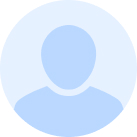
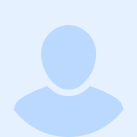
fix

diff --git a/scss/core/_header.scss b/scss/core/_header.scss
@@ -44,18 +44,22 @@
 	}
 
 	&__user {
-		display: flex;
-		align-items: center;
-		justify-content: flex-end;
+		display: none;
+		@media (min-width: 768px) {
+
+			display: flex;
+			align-items: center;
+			justify-content: flex-end;
+		}
 	}
 
 	&__userImg {
 		width: 3.875em;
 		height: 3.875em;
 		margin-left: 1.5em;
-		flex: none;
 
 		img {
+			border-radius: 50%;
 			display: block;
 			object-fit: cover;
 			width: 100%;
@@ -68,6 +72,7 @@
 	}
 
 	&__userNotif {
+		position: relative;
 		width: 2.3125em;
 		height: 2.0625em;
 
@@ -78,12 +83,24 @@
 			height: 100%;
 		}
 
+		span {
+			position: absolute;
+			top: 5px;
+			right: 7px;
+			display: block;
+			width: 8px;
+			height: 8px;
+			border-radius: 50%;
+			background-color: rgb(255, 0, 0);
+		}
+
 		&:hover {
 			cursor: pointer;
 		}
 	}
 
 	&__menu {
+		display: none;
 		position: absolute;
 		top: 5.5em;
 		right: 0;
@@ -95,24 +112,31 @@
 	&__item {
 		display: flex;
 		align-items: center;
-		padding: 0.7em 1em 0.7em 1.1875em;
-		border-bottom: 1px solid rgba(255, 255, 255, 0.23);
+		// padding: 0.7em 1em 0.7em 1.1875em;
+		// border-bottom: 1px solid rgba(255, 255, 255, 0.23);
 		transition: 0.3s;
 
 		a {
-			padding-left: 1em;
+			// padding-left: 1em;
 			display: block;
+			width: 100%;
+			margin-right: 1em;
 			color: #fff;
 			font-size: 1.0625em;
+			border-bottom: 1px solid rgba(255, 255, 255, 0.23);
+			padding: 0.7em 0;
 
 			&:hover {
 				text-decoration: none;
-
+				// padding: 0.8em 0;
 			}
 
 		}
 
 		img {
+			// flex: none;
+			margin-left: 1em;
+			margin-right: 1em;
 			max-width: 1.5em;
 			display: block;
 			object-fit: cover;
@@ -124,7 +148,12 @@
 			background-color: rgba(29, 29, 27, 0.25);
 			cursor: pointer;
 			transition: 0.3s;
-			padding: 1em 1em 1em 1.1875em;
+
+			a {
+
+				padding: 1em 0;
+				border-color: transparent;
+			}
 
 		}
 	}

diff --git a/js/function.js b/js/function.js
@@ -589,26 +589,36 @@ function initRecommendSliders() {
 
 }
 
+function headerMenuToggle() {
 
-$( '.header__menu' ).hide( '', function () {
-    $( '.header__userImg' ).on( 'click', function ( event ) {
-        $( '.header__menu' ).toggle( '', function () {
+    $('.header__userImg').on('click', function(event) {
+        $('.header__menu').fadeToggle();
+    });
+}
+headerMenuToggle();
 
-        } );
-    } );
-
-} );
-
-
+function replaceRecommendButton() {
+    let progress = $( '.lkCourses__progress' );
+        progressBar = $( '.lkProgress__bar' );
+        head = $( '.lkCourses__head' );
+    if ( isXsWidth() ) {
+        progress.appendTo(progressBar);
+    } else {
+        progress.appendTo(head);
+    }
+}
+replaceRecommendButton();
 // function replaceRecommendButton() {
-//     const recBtn = $( '.lkRecommend__button' );
+//     const btn = $( '.lkRecommend__button' );
+//     console.log(btn);
 //     if ( isXsWidth() ) {
-//         recBtn.appendTo( '.lkRecommend__plate' );
+//         btn.appendTo( '.lkRecommend__plate' );
 //     } else {
-//         recBtn.appendTo( '.lkRecommend__action' );
+//         btn.appendTo('.lkRecommend__action');
 //     }
 // }
 // replaceRecommendButton();
+
 
 // function replaceRecommendButton() {
 //     const recBtn = $( '.lkRecommend__buttonBox' );

diff --git a/scss/component/lk-data.scss b/scss/component/lk-data.scss
@@ -41,15 +41,9 @@ $lkData_font-family: Open Sans;
 
     &__label {
         display: block;
-        // font-family: $lkData_font-family;
         font-size: 1.0625em;
         line-height: 1.2;
         padding-bottom: 1em;
-
-    }
-
-    &__input {
-        // font-family: $lkData_font-family;
 
     }
 
@@ -91,6 +85,7 @@ $lkData_font-family: Open Sans;
     }
 
     img {
+        border-radius: 50%;
         display: block;
         width: 100%;
         height: 100%;

diff --git a/scss/component/lk-courses.scss b/scss/component/lk-courses.scss
@@ -48,6 +48,7 @@
 
         }
 
+        li,
         ul {
             margin: 0;
             list-style: none;
@@ -56,6 +57,7 @@
                 padding: 1em 0 1em 2em;
 
             }
+
         }
     }
 
